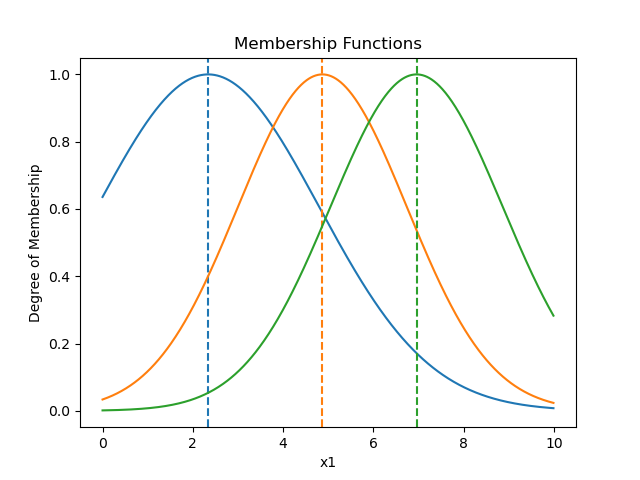
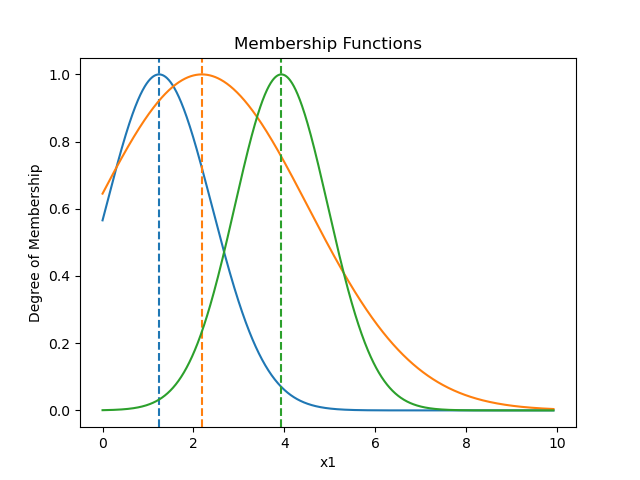
figures of before training and after building dont match

diff --git a/neurofuzzy_pkg/arcs/MyArc.py b/neurofuzzy_pkg/arcs/MyArc.py
@@ -74,7 +74,7 @@ class MyArc():
         # problem: cant get to the shape in the MapDataset element 
         for features in inputs.take(1):
           n_inputs = int(features.shape[0])
-          print(n_inputs)
+        #  print(n_inputs)
 
         n_mfs = self.FuzzificationLayer.n_mfs
         n = n_mfs * n_inputs
@@ -119,7 +119,59 @@ class MyArc():
         print("building done")
         done = True
         return done       
+    
 
+    def build_classweights(self, inputs, targets, feature_ranges, df_name =None):
+
+        done = False
+
+
+        # calc of amount of rules
+        ## HOT FIX ##
+        # inputs = <MapDataset element_spec=TensorSpec(shape=(11,), dtype=tf.float64, name=None)>
+        # problem: cant get to the shape in the MapDataset element 
+        for features in inputs.take(1):
+          n_inputs = int(features.shape[0])
+        #  print(n_inputs)
+
+        n_mfs = self.FuzzificationLayer.n_mfs
+        n = n_mfs * n_inputs
+        k = self.RuleAntecedentLayer.n_participants 
+        n_rules = int(coefficient(n, k) - n)
+
+        for i in range(n_rules):
+            self.RuleConsequentLayer.dictrules[i] = []
+            self.RuleConsequentLayer.tars[i] = []
+
+        for weird_thingy, weirdtar in (zip(tqdm(inputs, desc='building'), targets)):
+            for layer in self.internal_layers:
+                if type(layer) == type(self.FuzzificationLayer):
+                    x = layer(weird_thingy)
+                elif type(layer) == type(self.RuleConsequentLayer):
+                    x = layer.build(x, weirdtar)
+                else:
+                    x = layer.build(x)
+      #  print("dict", self.RuleConsequentLayer.dictrules)
+        # class weights 
+        for ruleID in tqdm(self.RuleConsequentLayer.dictrules, desc="selecting"):
+            l = self.RuleConsequentLayer.dictrules[ruleID]
+            max_val = max(l)
+            idx_max = l.index(max_val)
+          # print("l", l)
+           # print("max", max_val)
+            
+            tar = self.RuleConsequentLayer.tars[ruleID][idx_max]
+            #print("tar", tar)
+            self.RuleConsequentLayer.weights[ruleID] = tar
+        # for layer in self.internal_layers:
+        #     if type(layer) == type(self.RuleConsequentLayer):
+        #         x = layer(x, x_og)
+        #     else:
+        #         x = layer(x)        
+        self.RuleConsequentLayer.save_weights(df_name)
+        self.RuleConsequentLayer.load_weights(df_name)
+        print("building done")
+        done = True
 
 
     def build_MFs(self, feature_ranges, df_name=None):

diff --git a/model_pkg/Model.py b/model_pkg/Model.py
@@ -51,8 +51,17 @@ class Model():
         self.data.load_data_for_building()
         self.feature_names = self.data.feature_names
         self.arc.feature_names = self.feature_names
-        self.arc.self.feature_ranges = self.data.feature_ranges
-        self.arc.build(self.data.inputs, self.data.targets, self.data.inputs_mean, self.data.df_name)
+        self.arc.feature_ranges = self.data.feature_ranges
+        self.arc.build(self.data.inputs, self.data.targets, self.data.feature_ranges, self.data.df_name)
+        print("Build done")
+
+    def build_MyArc_CW(self):
+        # load data for building my arc
+        self.data.load_data_for_building()
+        self.feature_names = self.data.feature_names
+        self.arc.feature_names = self.feature_names
+        self.arc.feature_ranges = self.data.feature_ranges
+        self.arc.build_classweights(self.data.inputs, self.data.targets, self.data.feature_ranges, self.data.df_name)
         print("Build done")
 
     def build_MyArc_MF(self):
@@ -68,7 +77,7 @@ class Model():
         """
         """
         # todo just do example datastet
-        print("self.inputs_mean", self.inputs_mean)
+        #print("self.inputs_mean", self.inputs_mean)
         # get feature_names names 
         self.feature_names = self.data.feature_names
         self.arc.feature_names = self.feature_names
@@ -97,7 +106,7 @@ class Model():
         # passing parameter names onto trainer
         self.trainer.arc = self.arc
         self.trainer.feature_ranges = self.data.feature_ranges 
-        print("here", self.data.feature_ranges)
+       # print("here", self.data.feature_ranges)
         tf.keras.backend.clear_session()
         # trainig model
         self.trainer(self.train_ds,  self.test_ds, self.validation_ds)

diff --git a/main.py b/main.py
@@ -39,24 +39,26 @@ def main():
     learning_rate = 1
     n_epochs = 10 
 
-    # DataPipline
-    df_name = "wine" 
+    df_name = "dummy"
 
-    MyModel = Model(DataPipeline(df_name = "wine", batch_size=batch_size), 
+    MyModel = Model(DataPipeline(df_name, batch_size=batch_size), 
                     MyArc(), 
                     MyArcTrainer(n_epochs=n_epochs, learning_rate=learning_rate))
     
    # MyModel.build_MyArc() # works 
-    MyModel.build_MyArc_MF()
+   # MyModel.build_MyArc_MF()
     MyModel.trainMyArc()
+    MyModel.build_MyArc_CW()
+    
+
 
     ## Model with MLP arc
-    MLPModel = Model(DataPipeline(),  MLP((2,6),2),  Trainer())
-    MLPModel.train()
+    #MLPModel = Model(DataPipeline(),  MLP((2,6),2),  Trainer())
+    #MLPModel.train()
     # print(MLPModel.summary()) 
 
 
-    rules = ruleExtractor(MyModel, MLPModel, df_name)
+   # rules = ruleExtractor(MyModel, MLPModel, df_name)
     # rules.print_results()
     
     return 0

diff --git a/model_pkg/DataPipeline.py b/model_pkg/DataPipeline.py
@@ -107,6 +107,8 @@ class DataPipeline():
         print("df", df)
         self.feature_names = list(df.columns)
         print("feature", self.feature_names)
+         # get max value of each feature <- center init
+        self.feature_ranges = df.max()
 
         # get mean of all cols
         self.inputs_mean = np.mean(df, axis=0)      

diff --git a/neurofuzzy_pkg/utils/MFs.py b/neurofuzzy_pkg/utils/MFs.py
@@ -37,7 +37,7 @@ def center_init(n_mfs, feature_ranges):
    # print("inputs", inputs)
 
     for x in feature_ranges:
-        print("X", x)
+       # print("X", x)
         centers_per_x = []
        # print("\n")
         for i in range(n_mfs):

diff --git a/neurofuzzy_pkg/utils/ruleExtractor.py b/neurofuzzy_pkg/utils/ruleExtractor.py
@@ -106,7 +106,7 @@ class ruleExtractor():
 
         print("/n dict", self.rulesDict)
         self.save_results()
-        self.print_results()
+      #  self.print_results()
 
         ## bad yield 
         # file_name = "bad_yield.csv"
